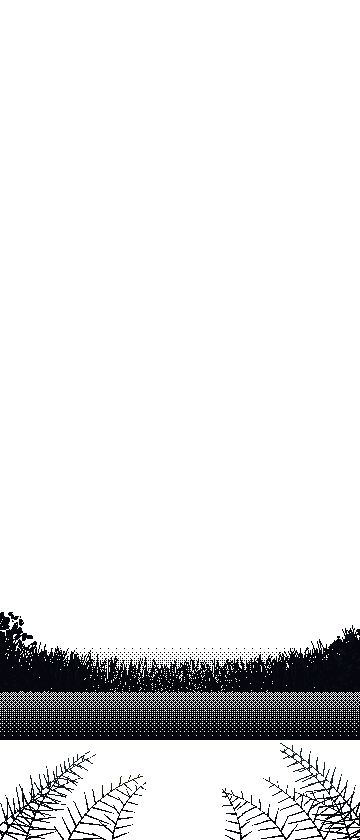
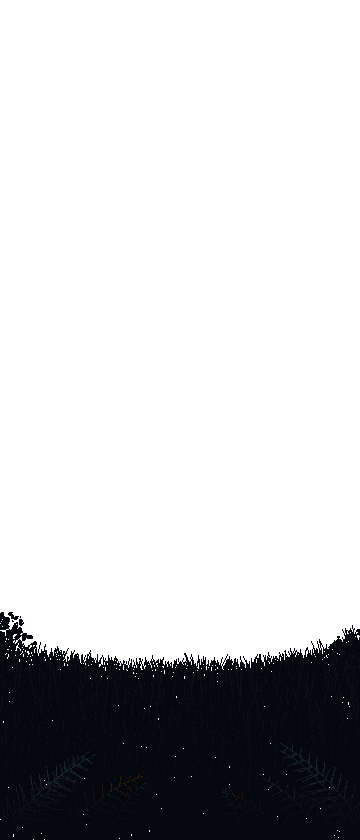
art: carry the title ground on below the ward instead of ending on a line
On a tall phone there was a hard horizontal edge just under the magic circle:
LIFT cuts the floor off at composition row 591 and the fore layer ramp to
occlusion is straight across, so the lit grass stopped on a ruler and flat
black began. In the tall frame that ramp is skipped; the flagstones, the
backB grass and the fore occlusion grass continue to the bottom edge at the
density they had reached, and every layer is darkened by one falloff centred
on the ward (pool-shaped ellipse, edge wobbled along x, gated in below the
ward, then taken to occ at the frame edge). Behind the Options row, the
preset readout and PRESS ANY BUTTON it is a low-contrast dither of the two
darkest tones.

0 off-contract colours; the 30 layers still composite to the flat PNG with
0 differing pixels; prompt and app icon unchanged.

Changed region(s): [[0.0, 0.7738, 1.0, 1.0]]

diff --git a/tools/art/splash.py b/tools/art/splash.py
@@ -562,7 +562,13 @@ def vigil(beard="mane-spear", ward=None, ground=None, wood="open",
     #
     # Dithered rather than alpha-blended, like every other gradient here: a blended pixel is not
     # one of the colours the contract allows, and the palette audit would stop meaning anything.
-    T("fore").vramp(544, H - 1, [None, OCC])
+    #
+    # ONLY in the old 640 frame. In the tall frame this ramp was the hard line under the ward: it
+    # is straight across, and the lifted floor stops dead at row 591 underneath it, so the lit
+    # ground ended on a ruler. _tall_frame() replaces it with a falloff centred on the ward light,
+    # over ground that carries on to the bottom of the frame.
+    if not tall:
+        T("fore").vramp(544, H - 1, [None, OCC])
 
     # The vignette is scene light, so it runs before the type, never after. Running it
     # last dithered frame-edge darkening straight over the wordmark, which is what made
@@ -688,6 +694,133 @@ def _taper(c, y0, y1, keep_above):
                 c.px[x, y] = (0, 0, 0, 0)
 
 
+# Where the ward sits in the tall frame: (180, 568) authored, lifted by LIFT, pasted down by TOP.
+WARD_C = (180, 568 - LIFT + TOP)
+
+
+def _wobble(x, k):
+    """A slow, irregular horizontal wobble in -1..1: three sines at unrelated frequencies. What
+    makes a falloff edge read as ground going dark unevenly rather than as a drawn ellipse."""
+    return (0.55 * math.sin(x * 0.043 + k) + 0.30 * math.sin(x * 0.117 + 2.1 * k)
+            + 0.15 * math.sin(x * 0.291 + 3.7 * k))
+
+
+def _falloff_t(x, y):
+    """How far the ward light has died away at (x, y), on the [None, shade, deep, occ] scale.
+
+    Two terms. The first is distance from the ward in the ground plane - an ellipse as flat as
+    the pool, with its edge pushed in and out along x so the light does not stop on a curve any
+    more than on a line - and it tops out a little past `deep`, so the far ground keeps a faint
+    texture instead of going flat. The second is the frame edge, and it is what carries that
+    texture the rest of the way into occlusion by the bottom row."""
+    cx, cy = WARD_C
+    rx = 196.0 * (1.0 + 0.12 * _wobble(x, 0.7))
+    ry = 58.0 * (1.0 + 0.22 * _wobble(x, 1.9))
+    e = math.sqrt(((x - cx) / rx) ** 2 + ((y - cy) / ry) ** 2)
+    t = min(3.15, max(0.0, (e - 0.90) / 0.42 * 3.0))
+    # Only below the ward. The same ellipse above it would darken the treeline, so it is gated
+    # in over forty rows - a gate that opened on one row would be the ruled line again.
+    gate = min(1.0, max(0.0, (y - (cy - 10)) / 40.0))
+    t *= gate * gate * (3.0 - 2.0 * gate)
+    tail = (y - (cy + 70)) / float(TALL_H - (cy + 70))
+    if tail > 0:
+        t += 1.05 * tail ** 1.3
+    return t
+
+
+def _ground_falloff(out, layers):
+    """The ground under and around the ward, carried down to the bottom of the frame and let go
+    gradually. Runs FIRST in _tall_frame, before the frond band is laid over it.
+
+    In the 640 frame the floor was cut off by LIFT at row 591 and a straight vertical ramp on the
+    fore layer crushed everything above that toward black - so the lit ground ended on a ruled
+    line just under the ring, then flat occlusion. On a tall phone that line is in the middle of
+    the screen. Now the floor and its grass simply continue (on backB, the layer that owns the
+    ground), and every layer is darkened by the same falloff from the ward, which is darken-only
+    and a pure function of position, so the layers still composite to the flat render exactly.
+
+    The menu's bottom row and the prompt sit on rows 675-740 of the tall frame. The falloff has
+    reached `deep` across all of that, so what is behind them is a low-contrast dither of the
+    two darkest tones with nothing bright in it."""
+    seam = TOP + H - LIFT                      # first row the lift left empty
+    g = raster.Canvas(W, TALL_H)
+    rng = random.Random(613)
+    # The floor, continued: the same flagstone bands at the same widening step they had reached.
+    y, step = seam, 15
+    while y < TALL_H:
+        hh = min(step, TALL_H - y)
+        g.rect(0, y, W - 1, y + hh, M["stone"][2])
+        g.hline(0, W - 1, y, M["stone"][4])
+        for _ in range(31):
+            g.set(rng.randrange(W), y + rng.randrange(1, max(2, hh)),
+                  M["stone"][1] if rng.random() < 0.35 else M["stone"][4])
+        y += hh
+        step += 1
+    # ...and the grass on it, at the density and blade height the vigil() grass loop had reached
+    # by its last row (about seven tufts a row, twelve high), started a few rows above the cut so
+    # the tufts straddle it. The new ground has to be the SAME ground as the old just above the
+    # cut, so that the only thing changing down the screen is the light. A sparser, plainer
+    # floor came out as a flat grey slab with the old grass ending on a line above it.
+    for _ in range(7 * (TALL_H - seam + 8)):
+        gx = rng.randrange(-6, W + 6)
+        gy = seam - 8 + int(rng.random() * (TALL_H - seam + 8))
+        sk.grass(g, gx, gy, 11 + rng.random() * 3, seed=rng.randrange(9999),
+                 dark=M["lichen"][4] if rng.random() < 0.7 else M["stone"][4],
+                 light=M["lichen"][3] if rng.random() < 0.5 else M["lichen"][2])
+    # Above the cut, the ward pool and vigil()'s foreground grass are on layers ABOVE backB, so
+    # in the stack these tufts would go behind them - but the flat render is one canvas, and
+    # pasting them there would put them in front. Below the cut no layer above backB has
+    # anything, so holding the tufts to those rows makes the order irrelevant and the composite
+    # still equals the flat render. It costs no line: the old grass tips already fill the rows
+    # above, and the new foreground grass below laps up over the cut on fore.
+    for y in range(seam):
+        for x in range(g.w):
+            g.px[x, y] = (0, 0, 0, 0)
+    _over(out["backB"], g)
+    # The foreground grass in flat occlusion carried on as well, on fore, where vigil() put it:
+    # it was the densest thing at the cut (about eleven tufts a row, forty-odd tall), and its
+    # stopping there was most of the line.
+    f = raster.Canvas(W, TALL_H)
+    for _ in range(11 * (TALL_H + 40 - seam)):
+        gx = rng.randrange(-8, W + 8)
+        gy = seam - 2 + int(rng.random() * (TALL_H + 40 - seam))
+        # vigil()'s own keep-out, moved into this frame: nothing in front of the ward.
+        if ((gx - 180) / 168.0) ** 2 + ((gy - (574 - LIFT + TOP)) / 74.0) ** 2 < 1.0:
+            continue
+        # and vigil()'s height rule, carried on from where it stopped, capped where it would
+        # start to reach the ring from below
+        gh = min(46.0, 10 + (gy - TOP + LIFT - 582) * 0.44)
+        sk.grass(f, gx, gy, gh * (0.9 + rng.random() * 0.2), seed=rng.randrange(9999),
+                 dark=OCC, light=M["stone"][4])
+    _over(out["fore"], f)
+
+    seen = []
+    for n in (STAGES if layers else ("backA",)):
+        c = out[n]
+        if any(c is s for s in seen):
+            continue
+        seen.append(c)
+        _darken_rows(c, WARD_C[1] - 10, TALL_H - 1, _falloff_t,
+                     [None, M["stone"][3], M["stone"][4], OCC], only_opaque=layers)
+
+
+def _darken_rows(c, y0, y1, t_of, colors, only_opaque):
+    n = len(colors)
+    for y in range(int(y0), int(y1) + 1):
+        for x in range(c.w):
+            cur = c.px[x, y]
+            if only_opaque and not cur[3]:
+                continue
+            t = t_of(x, y)
+            i = min(n - 1, int(t))
+            f = t - i
+            idx = i if f > raster.DITHER[y % 8][x % 8] / 64.0 else i - 1
+            if 0 <= idx < n and colors[idx] is not None:
+                want = raster.rgb(colors[idx])
+                if raster._lum(want) < raster._lum(cur):
+                    c.px[x, y] = want
+
+
 def _tall_frame(cv, layers):
     names = STAGES if layers else ("backA",)
     out = {}
@@ -698,6 +831,8 @@ def _tall_frame(cv, layers):
         out[n] = t
     if not layers:
         out = dict((n, out["backA"]) for n in STAGES)
+
+    _ground_falloff(out, layers)
 
     # --- ABOVE: more of the night sky, more canopy closing over it ----------------------------
     # The old top row is canopy in occlusion against a sky dithered in stone.deep, with the

diff --git a/.ai/title-screen.md b/.ai/title-screen.md
@@ -57,22 +57,43 @@ screen. Scaling up is forbidden, so the fix was **more picture**. `splash.py` st
   that closes the break over the wordmark from above, so the hole reads as a gap in leaves rather
   than as open sky with a cut edge. The new leaves cross the seam by ~24 rows and thin out by
   dither, overgrowing the old cut edge rather than butting against it.
-- **Below**: the composition's bottom 80 rows are pure occlusion on purpose (the prompt and the
-  menu's bottom row live there), so there is no lit ground to continue. The band holds fern fronds
-  rooted below the frame, banked up the two corners and low across the middle, drawn *lit* in the
-  four dimmest tones (`violet.deep`, `stone.shade`, `lichen.deep`, `gold.deep`). Drawn as
-  occlusion silhouettes with an edge light they were invisible, and the edge pass came out as a
-  uniform speckle - see `_frond()`. Not mirrored: a symmetrical pair reads as a frame.
+- **Below, the ground carries on** (`_ground_falloff()`). The first tall version left the 640
+  frame's bottom alone, and on the phone that was a hard line just under the ring: `LIFT` cuts the
+  floor off at composition row 591, and the fore layer's `vramp(544, ...)` to occlusion is
+  straight across, so the lit grass ended on a ruler and flat black began. In the tall frame that
+  ramp is skipped (`tall=True` in `vigil()`); the flagstones, the backB grass and the fore
+  occlusion grass all continue to the bottom edge at the density and blade height they had reached
+  at the cut, and every layer is then darkened by one falloff centred on the ward - an ellipse as
+  flat as the light pool, its edge wobbled along x by three sines so it does not stop on a curve
+  either, gated in over 40 rows below the ward so it never touches the treeline, plus a term that
+  takes the last of the texture to occlusion at the frame edge. **The new ground has to be the same
+  ground as the old just above the cut**: a sparser floor with no foreground grass came out as a
+  flat grey slab with the old grass ending on a line above it, which was the bug again.
+- **Behind the menu and the prompt it is dark on purpose.** Rows 675–740 of the tall frame hold
+  the Options row, the preset readout and PRESS ANY BUTTON (composition rows 590–610, file rows
+  690–710). The falloff has reached `stone.deep` across all of that, so what is behind the type is
+  a low-contrast dither of the two darkest tones with nothing bright in it.
+- **Fern fronds** rooted below the frame, banked up the two corners and low across the middle,
+  drawn *lit* in the four dimmest tones (`violet.deep`, `stone.shade`, `lichen.deep`,
+  `gold.deep`), go over that ground. Drawn as occlusion silhouettes with an edge light they were
+  invisible, and the edge pass came out as a uniform speckle - see `_frond()`. Not mirrored: a
+  symmetrical pair reads as a frame.
 - **Both bands fade to pure `occ` at the frame edge**, so a phone taller than 21:9 still meets the
   `Ground` colour invisibly. The top band is darkened by the Vigil vignette's own function carried
   past the end of the frame (`_vignette_t`), so new pixels at the seam get exactly the darkness of
   the old pixels beside them.
-- **The composition is untouched** except where the new leaves overgrow its top 24 rows (709
-  pixels, all on `backB`); the bottom seam changes nothing. Every new pass draws on a scratch
-  canvas, is darkened there, and is then composited onto the layer that owns its depth (sky on
-  `backA`, leaves on `backB`, fronds on `fore`) - so the animation layers still composite to the
+- **The composition is untouched above the ward** - only the new leaves overgrowing its top 24
+  rows, and from the bottom of the ring down, the ground falloff. Every new pass draws on a
+  scratch canvas and is composited onto the layer that owns its depth (sky on `backA`, leaves and
+  ground on `backB`, occlusion grass and fronds on `fore`); the falloff is darken-only and a pure
+  function of position, so it runs on each layer. The animation layers still composite to the
   flat PNG with **zero** differing pixels, and `title-prompt.png` and the app icon come out
   byte-identical (`app_icon.py` crops at `334 + 100`).
+- **One trap in keeping that zero.** The flat render is one canvas, so anything `_tall_frame`
+  adds to `backB` lands *in front of* whatever the layers above `backB` already hold there - the
+  ward pool and the old foreground grass. The new backB ground is therefore held to the rows
+  below the `LIFT` cut, where no higher layer has anything. Letting its tufts straddle the cut
+  cost 31 differing pixels.
 
 720×1680 covers a 21:9 phone exactly. On a Pixel 9 the art shows file rows 16–823; on a 16:9
 screen it shows rows 100–739, which is the old picture.
@@ -589,6 +610,10 @@ Three things make it cheap, and all three depend on where in the order it happen
 Measured after: the PRESS ANY BUTTON band at rows 616–636 is **100% pure occlusion**, as are the
 bottom 40 rows; the lowest lit pixel anywhere in the frame is `y=560`. There are 80 authored rows
 — 160 device pixels — of clean black under the art for a prompt, a version string or a menu.
+**That is true of the 640 frame only.** In the shipping 840 frame that black band is gone:
+on a tall phone it was a hard line under the ring, so the ground now carries on through it and
+falls off to a dark, low-contrast dither behind the type (see "The letterbox was not invisible"
+above).
 
 **PRESS ANY BUTTON moved up with the art.** The `Prompt` `TextureRect` is anchored to the bottom
 of the viewport, so the lift did not carry it: it stayed at device offsets `-48 .. -8` while the
